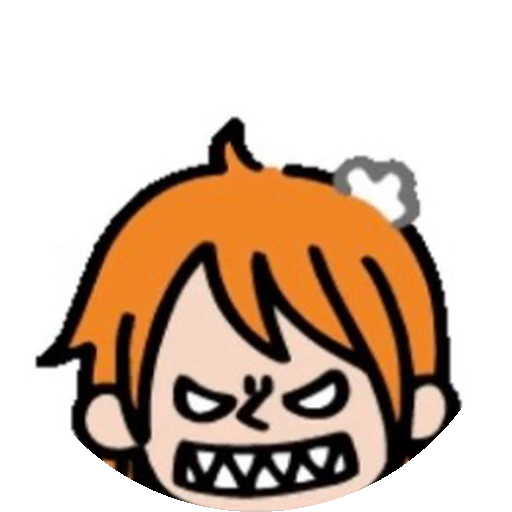
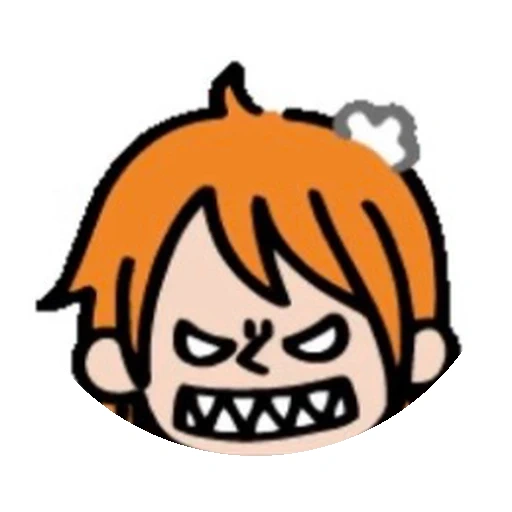
修复娜美和路飞头像顶部留白过多问题（角色上移居中）

diff --git a/dist/sw.js b/dist/sw.js
@@ -1,6 +1,6 @@
 // 离线缓存：在线时优先获取最新版；断网时回退到本地缓存
-// v70: 社媒内容模块填入真实抖音账号分析（替换待同步占位）
-const CACHE = 'wz-desk-v70';
+// v71: 修复娜美(ace)和路飞(garp)头像顶部留白过多问题
+const CACHE = 'wz-desk-v71';
 const FILES = ['./', './index.html', './icon.png', './manifest.webmanifest', './content.js', './en_practice.js',
   './assets/home-bg.webp', './assets/home-avatar.webp', './assets/quick-icon.webp', './assets/luffy.webp', './assets/robin.png', './assets/zoro.webp', './assets/sabo.webp', './assets/garp.webp',
   './assets/ace.webp', './assets/sanji.webp', './assets/nami.png', './assets/chopper.webp', './assets/usopp.webp',

diff --git a/sw.js b/sw.js
@@ -1,6 +1,6 @@
 // 离线缓存：在线时优先获取最新版；断网时回退到本地缓存
-// v70: 社媒内容模块填入真实抖音账号分析（替换待同步占位）
-const CACHE = 'wz-desk-v70';
+// v71: 修复娜美(ace)和路飞(garp)头像顶部留白过多问题
+const CACHE = 'wz-desk-v71';
 const FILES = ['./', './index.html', './icon.png', './manifest.webmanifest', './content.js', './en_practice.js',
   './assets/home-bg.webp', './assets/home-avatar.webp', './assets/quick-icon.webp', './assets/luffy.webp', './assets/robin.png', './assets/zoro.webp', './assets/sabo.webp', './assets/garp.webp',
   './assets/ace.webp', './assets/sanji.webp', './assets/nami.png', './assets/chopper.webp', './assets/usopp.webp',
